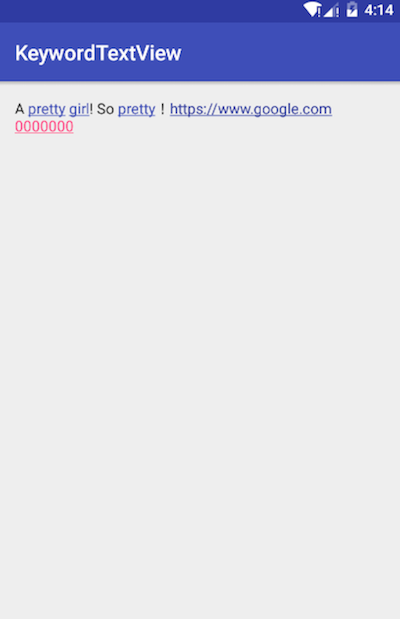
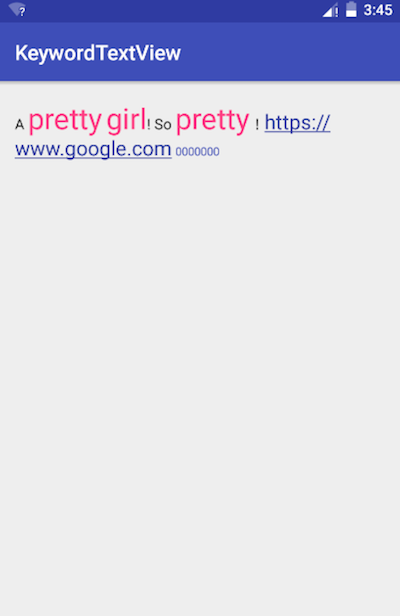
update README

diff --git a/README.md b/README.md
@@ -11,29 +11,35 @@ URL and 6 to 18 digit numbers have the same effect.
 ## Usage
 * Gradle
 ```
-compile 'me.imirai:keywordtextview:0.1.1'
+compile 'me.imirai:keywordtextview:0.1.2'
 ```
 * Maven
 ```
 <dependency>
   <groupId>me.imirai</groupId>
   <artifactId>keywordtextview</artifactId>
-  <version>0.1.1</version>
+  <version>0.1.2</version>
   <type>arr</type>
 </dependency> 
 ```
 
 ## Sample
+Two keywords separated by a comma.
+Relative size is a multiple of the default size.
 * Xml
 ```
 <me.imirai.library.KeywordTextView
     app:keyword="hello,world"
-    app:keyword_color="@color/colorPrimary"
-    app:has_underline="true"
+    app:keyword_color="@color/colorAccent"
+    app:keywords_underline="false"
+    app:num_underline="false"
     app:url_highlight="true"
     app:num_highlight="true"
+    app:keywords_relativeSize="2.0"
+    app:url_relativeSize="1.4"
+    app:num_relativeSize="0.8"
     app:url_color="@color/colorPrimaryDark"
-    app:num_color="@color/colorAccent"
+    app:num_color="@color/colorPrimary"
     android:id="@+id/text"
     android:layout_width="wrap_content"
     android:layout_height="wrap_content"
